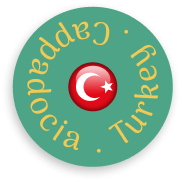
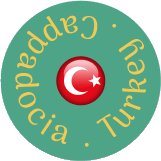
Bild turky bearbeitet

diff --git a/assets/style/main_page.css b/assets/style/main_page.css
@@ -18,6 +18,7 @@ h3 {
   font-size: 3.75rem;
 }
 .header_pic {
+  width: 100%;
   display: flex;
   flex-direction: column;
   padding: 0px max(0px, calc(50% - 720px));
@@ -47,7 +48,7 @@ h3 {
 
 .circle{
   position: absolute;
-  top: 250px;
+  top: 270px;
   left: 430px;
   transform: translate(0px, 270px);
   animation: 
@@ -60,10 +61,10 @@ h3 {
 .moon {
   visibility: hidden;
   opacity: 0;
-  width: 62px;
+  width: 50px;
   position: absolute;
-  top: 310px;
-  left: 490px;
+  top: 327px;
+  left: 486px;
   animation: moon 1s forwards 8s;
   animation-duration: 5s;
   z-index: 16;
